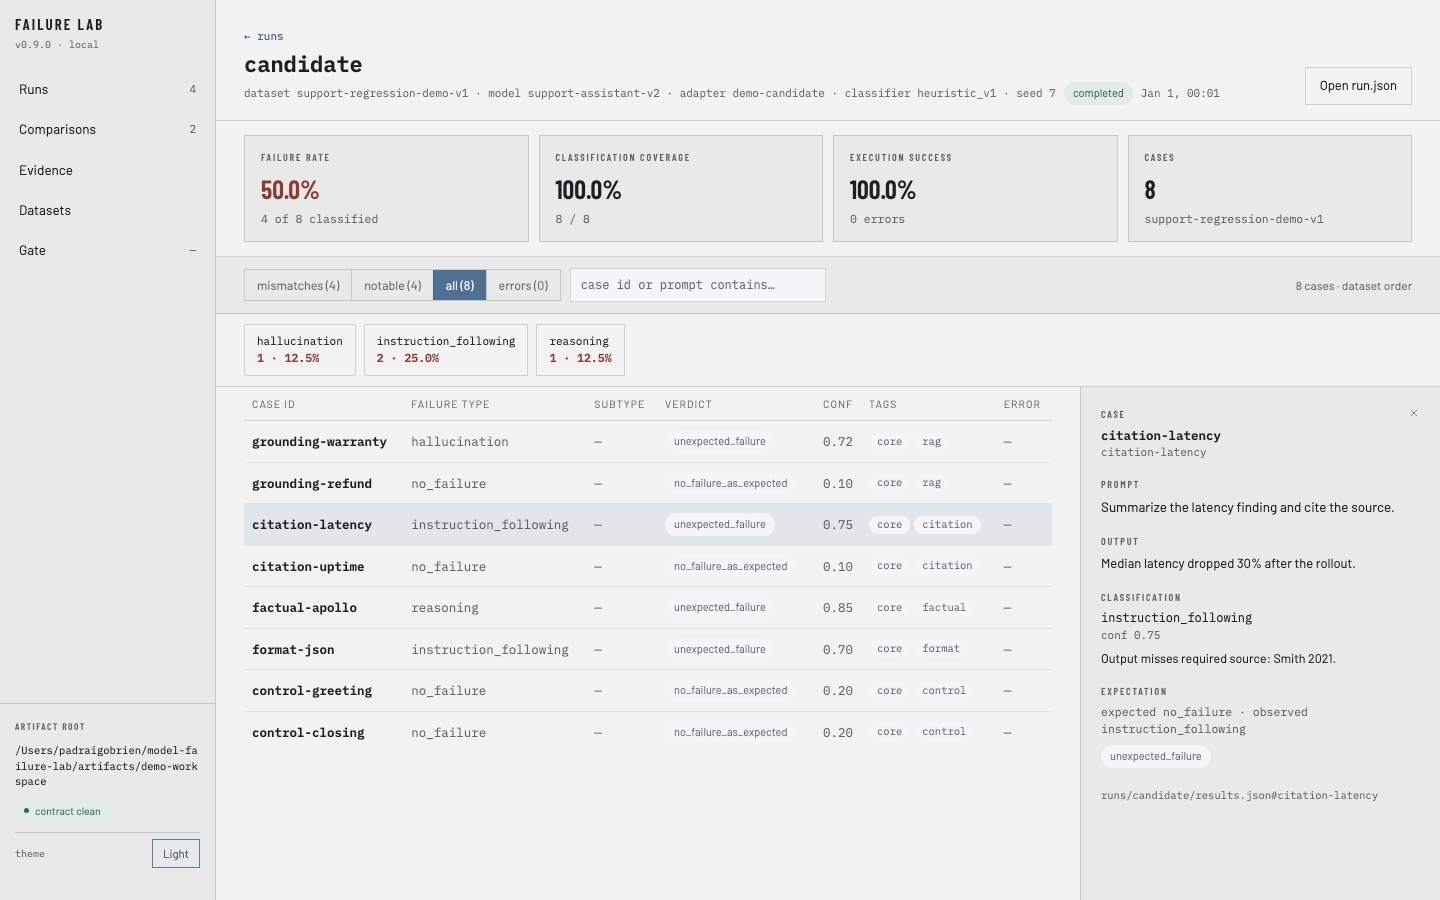
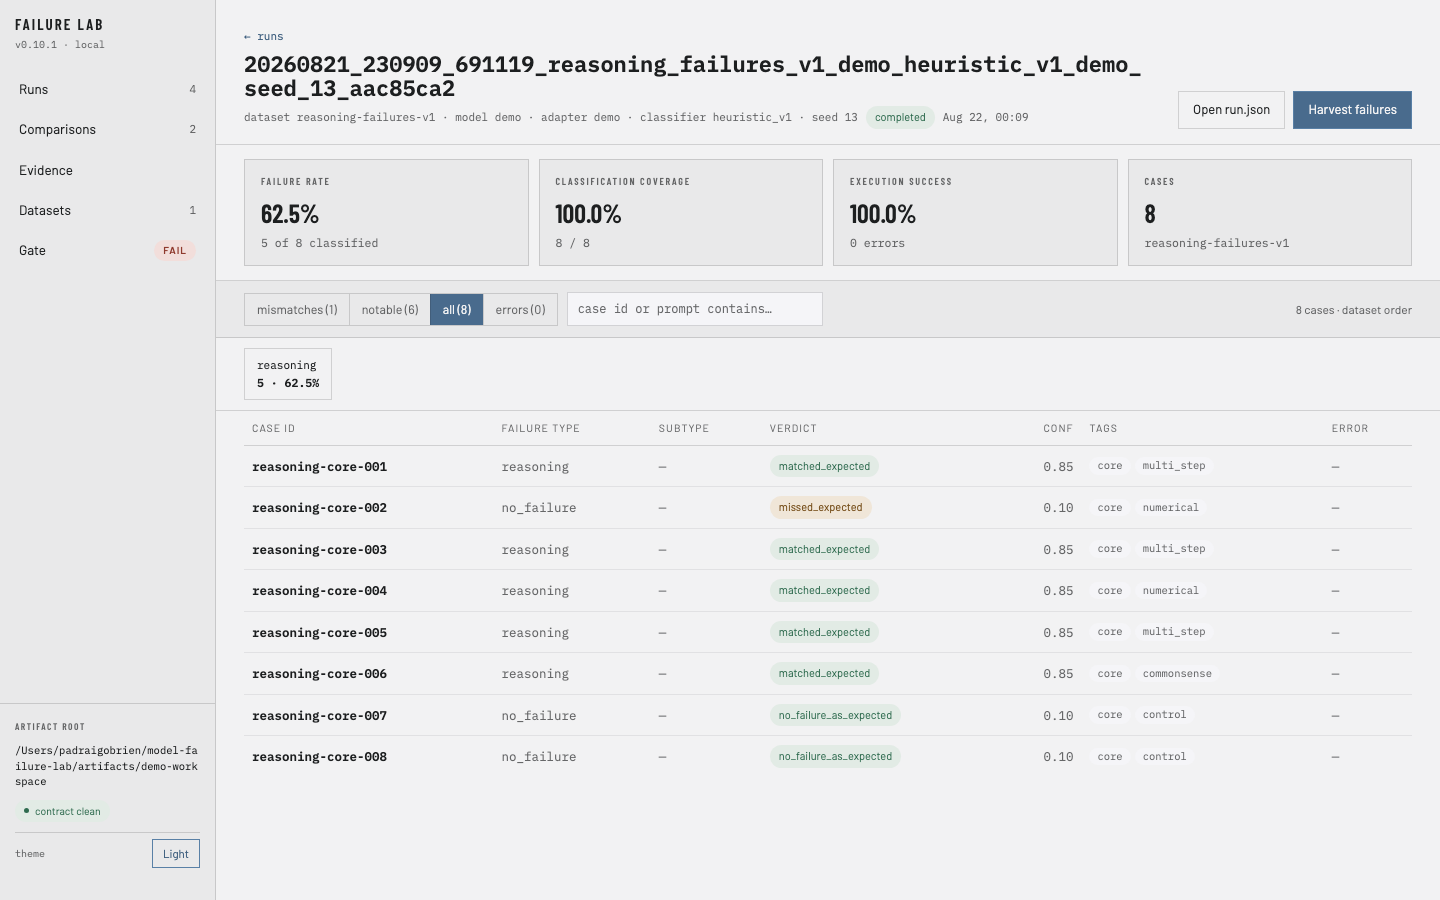
release: 0.11.0 — consumer-honesty pass, with a CHANGELOG that names the behavior changes
Cuts the audit remediation as 0.11.0 rather than folding it into unpublished
0.10.1, because three changes alter behavior a consumer depends on and deserve
migration notes: `dataset promote` now refuses to overwrite a curated version,
`regressions gate` and the console gate block on the same five conditions as
`compare --gate`, and `action.yml` installs from its own checkout by default.

- `docs/release.md` records the real publish state — PyPI holds only 0.1.0 —
  instead of a 0.10.0 release that never existed, and lists what to undo in the
  README once a matching version ships.
- Recaptured all four `docs/screens/` images at 1440px from the shipped console.
  They showed v0.9.0. Doing so surfaced a layout bug: the run-detail H1 overflowed
  its flex box and painted under the header actions on every real run id.
- `test_version_consistency.py` pins the remaining hand-maintained version copies
  and asserts the console never hardcodes one again.

diff --git a/frontend/src/app/routes/RunDetailPage.tsx b/frontend/src/app/routes/RunDetailPage.tsx
@@ -227,7 +227,11 @@ export function RunDetailPage() {
           >
             ← runs
           </button>
-          <h1 className="mt-1.5 font-mono text-[22px] font-semibold leading-[1.1] text-ink">
+          {/* Run ids are long, unbreakable monospace strings. Without `break-all` the H1
+              overflowed its flex box and painted underneath the header actions on every real
+              run id. DESIGN.md keeps run ids in their raw form in a primary position, so wrap
+              rather than truncate. */}
+          <h1 className="mt-1.5 break-all font-mono text-[22px] font-semibold leading-[1.1] text-ink">
             {run.runId}
           </h1>
           <div className="mt-1.5 flex flex-wrap items-center gap-2 font-mono text-[11px] text-muted-ink">

diff --git a/tests/unit/test_version_consistency.py b/tests/unit/test_version_consistency.py
@@ -1,0 +1,62 @@
+"""One version, stated once per surface, and all of them agreeing.
+
+The audit found four different versions visible without opening a source file: the README
+hero screenshot showed `v0.9.0`, the console shell hardcoded `v0.10.0`, `pyproject.toml` said
+`0.10.1`, and the PyPI badge rendered `0.1.0`. A tool whose product is artifact provenance
+should not misreport its own version.
+
+The console now reads the version from `pyproject.toml` at build time (see `define` in
+`frontend/vite.config.ts`), and the screenshots are recaptured on release. This pins the
+remaining hand-maintained copies.
+"""
+
+from __future__ import annotations
+
+import re
+import tomllib
+from pathlib import Path
+
+import model_failure_lab
+
+PROJECT_ROOT = Path(__file__).resolve().parents[2]
+
+
+def _pyproject_version() -> str:
+    with (PROJECT_ROOT / "pyproject.toml").open("rb") as handle:
+        return str(tomllib.load(handle)["project"]["version"])
+
+
+def test_package_version_matches_pyproject() -> None:
+    assert model_failure_lab.__version__ == _pyproject_version(), (
+        "src/model_failure_lab/__init__.py and pyproject.toml disagree; bump both together"
+    )
+
+
+def test_readme_project_status_matches_the_package() -> None:
+    readme = (PROJECT_ROOT / "README.md").read_text(encoding="utf-8")
+    match = re.search(r"Pre-1\.0 \(`([^`]+)`, public beta\)", readme)
+    assert match, "README should state the current version in its Project status section"
+    assert match.group(1) == _pyproject_version(), (
+        "the README's Project status version is stale; it is the version a reader sees"
+    )
+
+
+def test_changelog_documents_the_current_version() -> None:
+    changelog = (PROJECT_ROOT / "CHANGELOG.md").read_text(encoding="utf-8")
+    version = _pyproject_version()
+    assert f"## [{version}]" in changelog, (
+        f"CHANGELOG.md has no entry for {version}. A version bump without an entry leaves "
+        "consumers unable to see what changed -- including the behavior changes."
+    )
+
+
+def test_console_reads_its_version_rather_than_hardcoding_one() -> None:
+    # The specific regression: `const APP_VERSION = "v0.10.0 · local"` had already drifted by
+    # the time it shipped. Assert the shell interpolates the injected value instead.
+    shell = (
+        PROJECT_ROOT / "frontend" / "src" / "components" / "layout" / "ConsoleShell.tsx"
+    ).read_text(encoding="utf-8")
+    assert "__APP_VERSION__" in shell, "the console shell must read the injected package version"
+    assert not re.search(r'APP_VERSION\s*=\s*"v\d', shell), (
+        "the console shell hardcodes a version string again"
+    )

diff --git a/src/model_failure_lab/__init__.py b/src/model_failure_lab/__init__.py
@@ -2,4 +2,4 @@
 
 __all__ = ["__version__"]
 
-__version__ = "0.10.1"
+__version__ = "0.11.0"

diff --git a/CHANGELOG.md b/CHANGELOG.md
@@ -7,6 +7,96 @@ aims to follow [Semantic Versioning](https://semver.org/spec/v2.0.0.html). Publi
 at `0.9.0` (see `docs/decisions/0003-public-versioning-starts-at-v0.9.0.md`); earlier `v1.0`–`v5.3`
 git tags are internal development milestones, not public releases.
 
+## [0.11.0] - 2026-08-25
+
+A consumer-honesty release, from an external audit of `0.10.1`. Every change here is something a
+reader, CLI user, or CI job could observe. Three carry **behavior changes** — see Changed.
+
+`0.10.1` was never published to PyPI, so nobody is upgrading *from* it; the migration notes below
+apply to anyone tracking `main` or the source tree.
+
+### Fixed
+- **The gate had three contracts, and the console could show PASS on a comparison that failed CI.**
+  `compare --gate` blocked on five conditions (incompatible runs, regression verdict,
+  execution-success drop, classification-coverage drop, dropped baseline failing cases);
+  `regressions gate` and the operator console's `gate` endpoint blocked on the verdict alone. A
+  candidate that simply deleted the cases it broke failed CI and showed a green PASS in the console.
+  There is now one implementation, `governance.gates.evaluate_gate_conditions`, that every surface
+  calls, and each gate decision carries a `block_reason` the console renders verbatim
+  (`test_gate_surface_agreement.py`).
+- **The gate screen always claimed "policy: built-in defaults · waivers: none."** The bridge's
+  `gate` handler hand-picked its response fields and dropped `policy_source` / `waiver_source`, and
+  the validator defaulted the absence rather than rejecting it — so the console denied a committed
+  `governance/policy.yml` while displaying its values two rows below.
+- **The console counted `error_stage_changed` as a regression; the engine does not.** A comparison
+  whose only change was an error moving stage rendered a NEUTRAL banner and a green PASS directly
+  above a red, regression-tinted transition group. The transition sets moved to
+  `frontend/src/lib/artifacts/transitions.ts` and are pinned to the engine's constants from both
+  sides (`tests/fixtures/contract/transitions.json`).
+- **Red meant regression, except in five places.** The always-visible "contract issues" rail chip
+  and four execution/write error boxes were red; DESIGN.md reserves red for regression and forbids
+  it for validation. They are now amber. `expectationVerdictTone` tested for `"match"`/`"mismatch"`,
+  values `schemas/taxonomy.py` has never emitted, so every expectation chip on the run detail
+  rendered neutral and an `unexpected_failure` looked identical to a `no_failure_as_expected`.
+- **`pip install model-failure-lab` gets `0.1.0`**, which predates `init`, `compare --gate`,
+  `--html` and `openai-compat`. The README now leads with the clone install and says so, and
+  `docs/release.md` records the real publish state instead of a `0.10.0` PyPI release that never
+  existed.
+- **The advertised GitHub Action could not install itself.** `action.yml` defaulted to
+  `model-failure-lab>=0.10.1`, which pip cannot resolve, so `uses: …@main` failed for every
+  consumer. It installs from its own checkout by default now, and CI dogfoods that path plus the
+  failing exit code the README promises.
+- **The README's "Real output" was spliced from two commands**, seven lines short, with re-padded
+  driver rows and a `Top drivers:` section that `compare` does not print. It is now verbatim
+  `compare --summary`, pinned by `test_documented_output_is_real.py`, as is
+  `examples/regression_demo/expected_compare.txt` — committed as expected output and never checked.
+- **Concurrent harvests overwrote each other**, each reporting a successful write. Output-name
+  reservation is now atomic.
+- **The dev-server bridge returned the absolute repo path and full argv** in 500 bodies. The detail
+  goes to the server's stderr; the client gets a stable message.
+- **`docs/api.md` had drifted**: `init`, `baselines` and `regressions pr-comment` shipped
+  undocumented and the command counts were two releases stale. A test now walks the real argparse
+  tree.
+- `_optional_json_mapping` rejected top-level nulls in a dataset's `source`/`metadata` because it
+  tested the mapping instead of the field, making an explicit "no comparison id" unloadable.
+- CLI-harvested drafts recorded no `origin` / `comparison_report_id`, so the console's Datasets
+  screen showed a blank source for them while console-created drafts showed both.
+- `dataset review` was the only command in the loop without `--root`.
+- The run-detail H1 overflowed its box and painted under the header actions on every real run id.
+- Re-reading a run absent from the workspace raised a bare `No such file or directory`; it now
+  explains that comparisons made from run paths outside a workspace record only the run id.
+- Deleted `docs/product-screens.md`, which claimed no screenshots existed while sitting beside four
+  and linked to a file removed months ago, and the tracked empty `frontend/.claude-launch-note`.
+
+### Added
+- **Dataset content digests.** `dataset promote` and `dataset evolve` stamp
+  `metadata.integrity.content_digest` over a pack's id, version and ordered cases (excluding
+  provenance, so re-stamping metadata is not tampering). `load_dataset` verifies it, so editing a
+  promoted pack now fails at every consumer: `failure-lab run` exits 1 and `index validate` exits 1,
+  naming the file and both digests. Previously a promoted pack could lose three of its four cases
+  undetected while `index validate` reported `ok`.
+- Runs record `metadata.dataset_content_digest`, so a run's artifact says which dataset *content* it
+  executed. The run id's digest never covered that and still does not.
+- `dataset promote --force`, `dataset review --root`.
+- A golden bridge-payload contract (`tests/fixtures/bridge/`) pinned from both sides, closing the
+  circularity that let the `gate` drift ship: the console's validators were tested only against
+  fixtures written to match the validators.
+- `upsert_baseline(now=…)`, matching the clock-injection seam every other artifact writer has.
+
+### Changed
+- **`dataset promote` refuses to overwrite an existing curated dataset.** It used to replace the
+  version silently and exit 0, which is what made "immutable" a label rather than a guarantee.
+  *Migration:* add new cases as the next version with `dataset evolve`, promote under a different
+  `--dataset-id`, or pass `--force`.
+- **`regressions gate` and the console `gate` endpoint now block on the same five conditions as
+  `compare --gate`.** *Migration:* a job that passed while `compare --gate` failed on the same
+  artifacts will now fail — that disagreement was the bug. Waive a known-acceptable comparison in
+  `governance/waivers.yml`.
+- **`action.yml` installs from the action's own checkout by default** (`package: ""`). *Migration:*
+  pass `package: model-failure-lab==<version>` to pin a PyPI release instead.
+- The console reads its version from `pyproject.toml` at build time; it was a hardcoded string that
+  had already drifted. Screenshots in `docs/screens/` recaptured.
+
 ## [0.10.1] - 2026-08-24
 
 Fixes shipped after `0.10.0`. This is the first release to include the dev-server bridge and

diff --git a/docs/release.md b/docs/release.md
@@ -9,19 +9,38 @@ This is the runbook for cutting a public OSS release. It covers versioning/tag s
 > yourself. Do not upload to real PyPI until the TestPyPI dry run passes and a maintainer has
 > confirmed it is safe.
 
-## Current release: 0.10.1 (security patch)
+## Current release state: nothing since `0.1.0` is published
 
-`0.10.1` is the first release to include the regression-gate and dev-server-bridge hardening (see the
-CHANGELOG). The `0.10.0` tag on PyPI predates those fixes, so cutting and publishing `0.10.1` is what
-actually ships the hardening to consumers. The composite action (`action.yml`) already floors the
-installed package at `>=0.10.1`; that floor only takes effect once `0.10.1` is on PyPI.
+**PyPI holds exactly one release of `model-failure-lab`: `0.1.0`, uploaded 2026-04-27.** Neither
+`0.9.0`, `0.10.0`, `0.10.1`, nor `0.11.0` was ever published — verify with
+`curl -s https://pypi.org/pypi/model-failure-lab/json | python3 -c "import json,sys; print(sorted(json.load(sys.stdin)['releases']))"`.
+
+Consequences, which the README and `action.yml` are written around until this changes:
+
+- `pip install model-failure-lab` gets `0.1.0`, which predates `init`, `compare --gate`,
+  `--html` export and the `openai-compat` adapter. The README therefore leads with the clone
+  install and says so; `tests/unit/test_documented_output_is_real.py` asserts it keeps saying so.
+- The composite action defaults to installing from **its own checkout**, not from PyPI, so
+  `uses: Padraigobrien08/model-failure-lab@main` works with no release. Its earlier default of
+  `model-failure-lab>=0.10.1` could not resolve at all.
+
+### Publishing the current tree
+
+`0.11.0` is the current tree: the regression-gate and dev-server-bridge hardening from `0.10.1`,
+plus the gate-contract unification, dataset-integrity guarantees and consumer-honesty fixes that
+followed (see the CHANGELOG). Publishing it is what ships all of that to anyone not cloning.
 
 Before tagging: bump the version in `pyproject.toml` and `src/model_failure_lab/__init__.py`, add the
 matching `CHANGELOG.md` entry, and confirm `make check` and the frontend build are green.
 
+**After the release lands, in the same follow-up commit:** restore the PyPI-first install block in the
+README, drop the "Install from source for now" note, and delete
+`test_documented_output_is_real.py::test_readme_does_not_promise_a_pypi_install_that_predates_the_docs`.
+That test exists to keep the README honest while the gap is open, not forever.
+
 ## Public versioning policy
 
-**Public OSS releases start at `v0.9.0`.** The package version in `pyproject.toml` is `0.10.1`.
+**Public OSS releases start at `v0.9.0`.** The package version in `pyproject.toml` is `0.11.0`.
 
 Pre-1.0 semantics (also in the README): patch = fixes/docs, minor = CLI-compatible additions,
 breaking = CLI or artifact-schema changes. The first stable line is `1.0.0`.
@@ -65,8 +84,8 @@ git push origin --delete v1.0 v1.1 ... v5.3
 **Then, in either case, cut the public release** (substitute the version being released):
 
 ```bash
-git tag -a v0.10.1 -m "Gate and dev-server-bridge hardening"
-git push origin v0.10.1
+git tag -a v0.11.0 -m "Gate contract unification and dataset integrity"
+git push origin v0.11.0
 ```
 
 > Until a maintainer performs the cleanup, **do not** create a GitHub Release from any `vX.Y` tag.

diff --git a/README.md b/README.md
@@ -18,7 +18,7 @@ bash examples/regression_demo/run.sh      # see a real regression caught
 
 > **Install from source for now.** The PyPI release is behind the source tree — `pip install
 > model-failure-lab` currently gets `0.1.0`, which predates `init`, `compare --gate`, `--html`
-> export and the `openai-compat` adapter. Clone until the badge below reads `0.10.1`.
+> export and the `openai-compat` adapter. Clone until the badge below reads `0.11.0`.
 
 [![Production CI](https://github.com/Padraigobrien08/model-failure-lab/actions/workflows/production.yml/badge.svg)](https://github.com/Padraigobrien08/model-failure-lab/actions/workflows/production.yml)
 [![PyPI](https://img.shields.io/pypi/v/model-failure-lab)](https://pypi.org/project/model-failure-lab/)
@@ -277,7 +277,7 @@ The production CLI is dependency-isolated from the optional research/ML stack: r
 
 ## Project status
 
-Pre-1.0 (`0.10.1`, public beta). Versioning intent: patch = fixes/docs, minor = CLI-compatible additions, breaking
+Pre-1.0 (`0.11.0`, public beta). Versioning intent: patch = fixes/docs, minor = CLI-compatible additions, breaking
 = CLI or artifact-schema changes. The DistilBERT/CivilComments benchmark stack under `[legacy]` is
 retained for reference and is not part of the supported workflow (`docs/legacy.md`).
 
